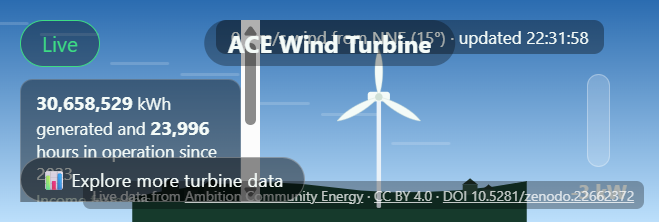
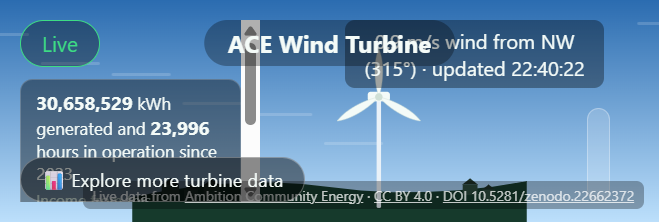
concept-5: narrow the wind readout box and increase its font size

diff --git a/solutions/concept-5-live-digital-twin-plus/styles.css b/solutions/concept-5-live-digital-twin-plus/styles.css
@@ -186,9 +186,9 @@ body {
   align-items: flex-start;
   overflow-y: auto;
   /* Capped so it can never reach into the top-right readout's own reserved
-     space (~300px measured, plus margin), nor into the centred title's own
-     reserved half-width, on any screen width. */
-  max-width: min(70.4ch, max(calc(100vw - 20rem - 7rem), 12rem), max(calc(50vw - 14rem), 12rem));
+     space (now narrower, ~12rem box + margin), nor into the centred title's
+     own reserved half-width, on any screen width. */
+  max-width: min(70.4ch, max(calc(100vw - 15rem - 7rem), 12rem), max(calc(50vw - 14rem), 12rem));
 }
 
 .freshness {
@@ -218,8 +218,8 @@ body {
   background: rgba(0, 0, 0, 0.35);
   padding: 0.35em 0.9em;
   border-radius: 8px;
-  font-size: 0.85rem;
-  white-space: nowrap;
+  font-size: 1rem;
+  max-width: 24ch;
   text-align: center;
   flex-shrink: 0;
   margin-right: 1.75rem;

diff --git a/solutions/concept-5-live-digital-twin-plus/README.md b/solutions/concept-5-live-digital-twin-plus/README.md
@@ -155,15 +155,18 @@ A plain "ACE Wind Turbine" heading now sits at the top-centre of the scene,
 so the screen reads clearly as the turbine's own display even from a
 distance, before a visitor reads any of the live numbers.
 
-### 9. One-line wind readout
+### 9. Wind readout: narrower box, larger text
 
-The wind readout's font size was reduced and wrapping disabled, so "X m/s
-wind from Y · updated HH:MM:SS" always renders as a single line rather than
-wrapping across several short ones. The left-hand info panel's own maximum
-width is calculated (via CSS `calc()`/`min()`/`max()`) to stay clear of both
-the centred title and the top-right readout at any screen width, rather
-than being a fixed guess — checked directly against the rendered values at
-both 1280×720 and 1920×1080.
+The wind readout went through two iterations: first shrunk to fit on a
+single line, then — after a closer look — made narrower again with a
+larger font size, which means it now wraps across two short lines instead
+of one long one. The box's width is fixed (`24ch`) rather than tied to the
+viewport, so it stays a consistent size regardless of screen width. The
+left-hand info panel's own maximum width is calculated (via CSS
+`calc()`/`min()`/`max()`) to stay clear of both the centred title and the
+top-right readout at any screen width, rather than being a fixed guess —
+checked directly against the rendered values at both 1280×720 and
+1920×1080, and re-verified after the readout's width changed.
 
 ### 10. Smaller text, shorter boxes, and a verified no-overlap check
 
